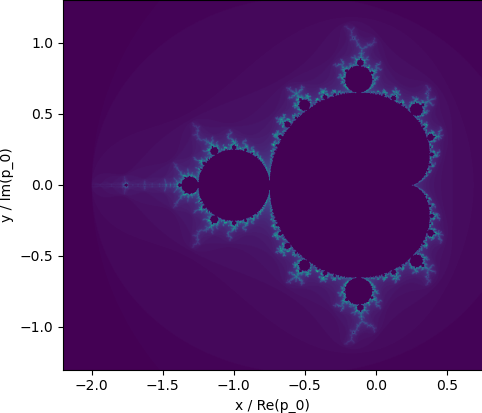
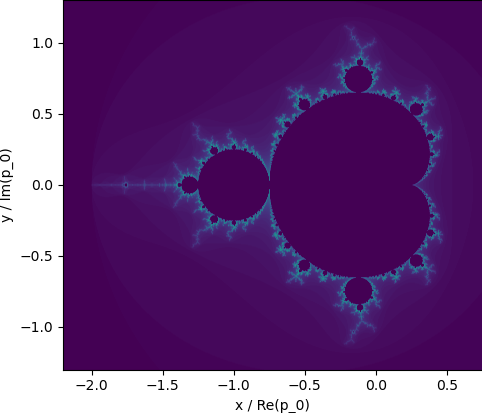
update

diff --git a/Mandelbrot_dynamic.py b/Mandelbrot_dynamic.py
@@ -67,7 +67,7 @@ def split_by_index_and_chunk(xlim, size, index, chunk_size, size_global, xlim_gl
             x_upper_lim = x_lower_lim + local_length;
             new_upper_size_lim = size_global[0]-index*chunk_size;
         new_x_lim = x_lower_lim, x_upper_lim;
-        new_size = int(new_upper_size_lim), 1000;
+        new_size = int(new_upper_size_lim), int(size_global[1]);
         return new_size, new_x_lim;
     else:
         print("we end here");
@@ -94,12 +94,12 @@ def communicate_the_image_back(index, image, comm):
     #send the image
     comm.Send(image, dest=0);
 
-def receive_image(comm):
+def receive_image(comm, size_global):
     index_receive_buffer = np.empty(1, dtype=np.int32);
     comm.Recv(index_receive_buffer);
-    image_receive_buffer = np.empty([chunk_size, 1000],dtype=np.int32);
+    image_receive_buffer = np.empty([chunk_size, size_global[1]],dtype=np.int32);
     comm.Recv(image_receive_buffer,status=status);
-    num_received_elements = int(status.Get_elements(MPI.INT)/1000);
+    num_received_elements = int(status.Get_elements(MPI.INT)/size_global[1]);
     return index_receive_buffer[0], image_receive_buffer, num_received_elements;
 
 def compute_max_image_number(chunk_size, size):
@@ -141,7 +141,7 @@ for h in ("help", "-h", "-help", "--help"):
 
 # First we define all the defaults, then we let the arguments overwrite
 # them.
-chunk_size = 10;
+chunk_size = 100;
 size = 1000, 1000
 xlim = -2.2, 0.75
 ylim = -1.3, 1.3
@@ -181,19 +181,18 @@ if (mpi_rank ==0):
     for i in range(1, mpi_size):
         index = communicate_rank_0(comm, index);
     while(True):
-        local_index, local_image, num_received_elements = receive_image(comm);
+        local_index, local_image, num_received_elements = receive_image(comm, size_global);
         num_received_images +=1;
 
         print("num received images", num_received_images);
         if(index < max_images):
             index = communicate_rank_0(comm, index);
+            print("index", index);
         assemble_image(local_image, image, local_index, chunk_size, num_received_elements);
         if(num_received_images == max_images): break;
 else:
     while(True):
-        print("rank ", mpi_rank, "is still running");
         index = communicate_index(comm);
-        print("index:", index);
         if(index >= max_images): break;
         size, xlim = split_by_index_and_chunk(xlim, size, index, chunk_size, size_global, x_lim_global);
         # Convert to numpy arrays, not really needed...
